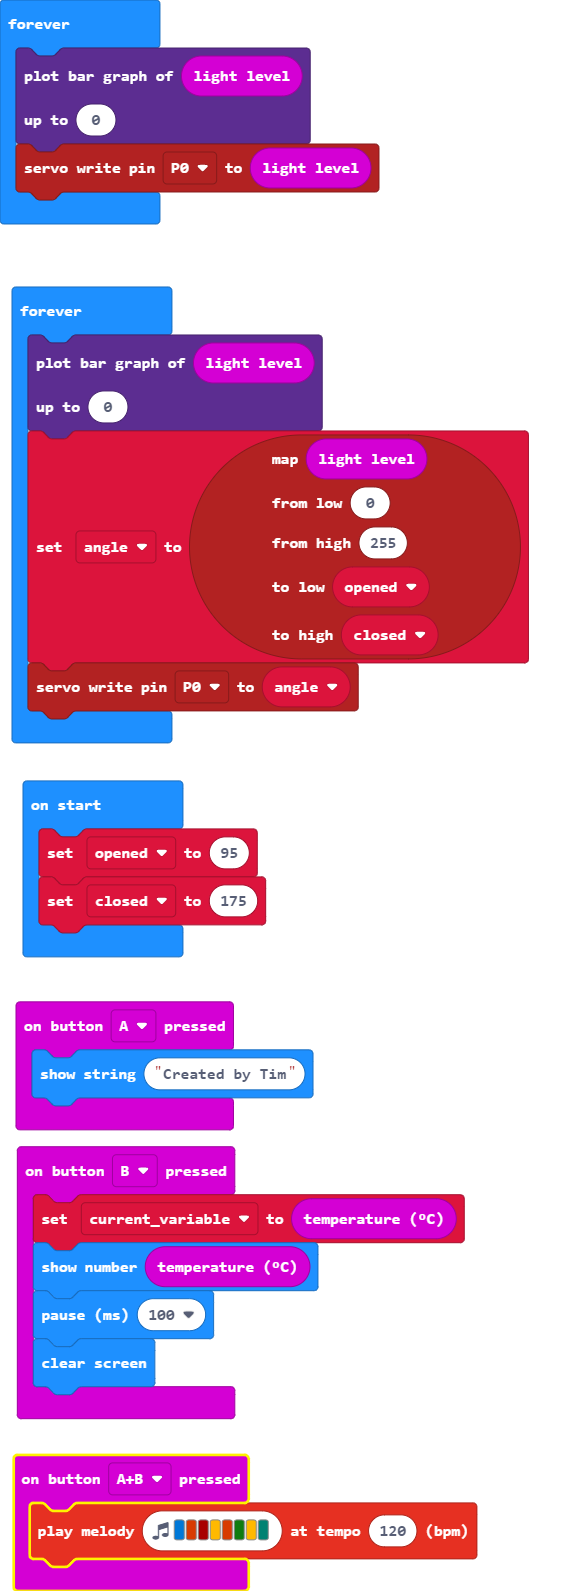
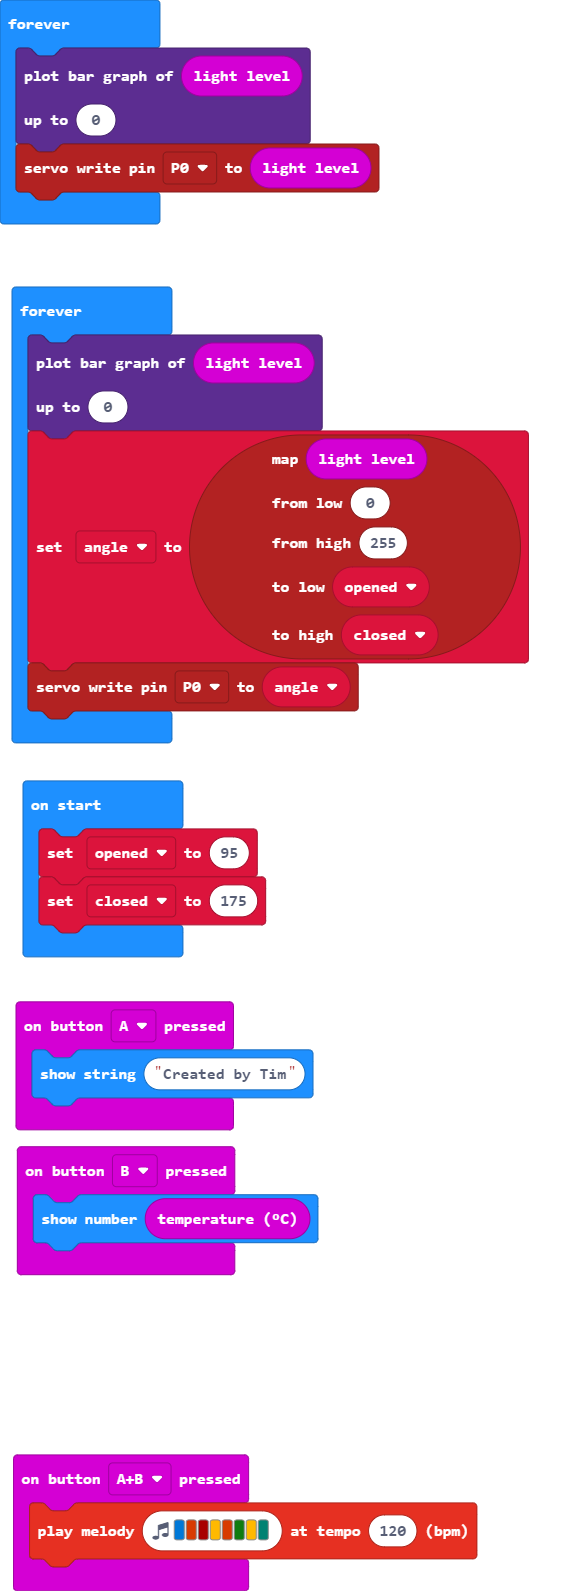
Update main.blocks, main.ts

diff --git a/main.ts b/main.ts
@@ -5,13 +5,9 @@ input.onButtonPressed(Button.AB, function () {
     music.playMelody("E B C5 A B G A F ", 120)
 })
 input.onButtonPressed(Button.B, function () {
-    current_variable = input.temperature()
     basic.showNumber(input.temperature())
-    basic.pause(100)
-    basic.clearScreen()
 })
 let angle = 0
-let current_variable = 0
 let opened = 95
 let closed = 175
 basic.forever(function () {
